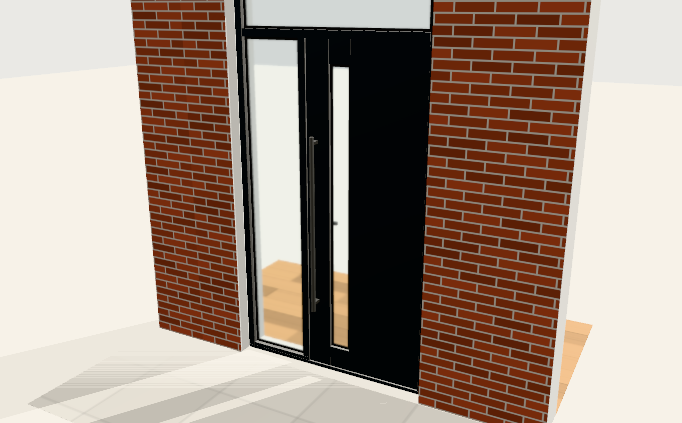
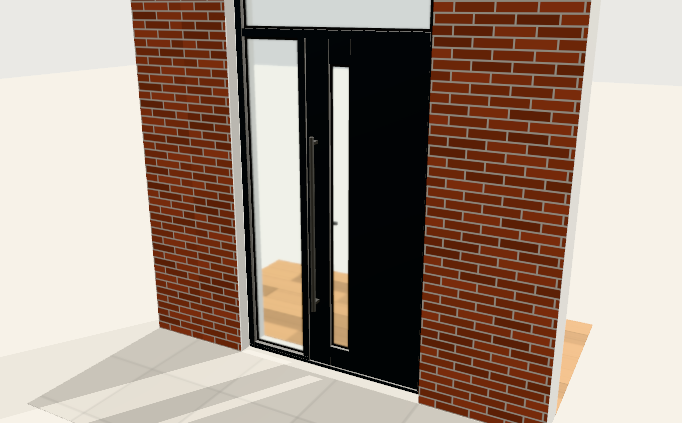
Raamtypes: soort kiezen past een indeling toe, vloer zonder strepen, korrel van structuurlak
- Een andere soort kiezen in de stap "Soort" past de eerste tegel van die soort toe: maat, glas en
  profiel kloppen meteen (een raam dat een hef-schuifdeur wordt, stond anders vol fouten).
- 3D per positie: bij de nieuwe indelingen (grote glaspartijen, vrij raster, stolp, steellook) liggen
  vloer en terras 3 mm boven het grondvlak, zodat ze er niet tegen flikkeren. De indelingen van
  vroeger blijven exact gelijk (referentiebeeld bouw-raam).
- Structuurlak krijgt een eigen fijne korrel, zichtbaar als je inzoomt.
- Ongebruikte import weg in de plattegrond-editor; skill bijgewerkt.

Claude-Session: https://claude.ai/code/session_01PczewFp9M8BS44vqTSpk6u

Changed region(s): [[0.1232, 0.7683, 0.3387, 0.8913], [0.4003, 0.8605, 0.4311, 0.8913]]

diff --git a/packages/demo-web/src/drie-d.ts b/packages/demo-web/src/drie-d.ts
@@ -668,8 +668,17 @@ function maakViewer(houder: HTMLElement, opties: Opties3D, intern: { geenWebGPU:
     steen: STEEN, planken: PLANK, tegel: TEGEL, parket: PARKET,
     planken_h: LIGGEND, leien: LEIEN, zink: ZINK, natuursteen: NATUURSTEEN, pleister: PLEISTER,
   };
-  // Structuurlak: de korrel van de pleister, vier keer fijner (korrels van ruim een millimeter).
+  // Structuurlak (schrijnwerk): een fijne korrel van ruim een millimeter, op een tegel van 16 cm.
   textuurMaat.lak_structuur = { b: 16, h: 16 };
+  const lakKorrel = (hex: string) => canvasTextuur(16, 16, 12, (g, px) => {
+    const toeval = vasteReeks('lak' + hex);
+    g.fillStyle = hex;
+    g.fillRect(0, 0, 16 * px, 16 * px);
+    for (let n = 0; n < 6000; n++) {
+      g.fillStyle = toeval() < 0.5 ? `rgba(0,0,0,${0.08 + toeval() * 0.2})` : `rgba(255,255,255,${0.08 + toeval() * 0.2})`;
+      g.fillRect(toeval() * 16 * px, toeval() * 16 * px, 2, 2);
+    }
+  });
 
   /**
    * UV in wereldmaat (cm) per vlak, zodat stenen en planken hun echte maat houden.
@@ -747,7 +756,7 @@ function maakViewer(houder: HTMLElement, opties: Opties3D, intern: { geenWebGPU:
       else if (b.soort === 'kunststof') m = new THREE.MeshStandardMaterial({ color: kleur(b.kleur), roughness: 0.35 });
       // Gelakt schrijnwerk: mat (dof), structuurlak (dof met een fijne korrel die licht vangt) of glanzend (blanke laklaag die spiegelt).
       else if (b.soort === 'lak_mat') m = new THREE.MeshStandardMaterial({ color: kleur(b.kleur), roughness: 1 });
-      else if (b.soort === 'lak_structuur') { const korrel = pleister(b.kleur); m = new THREE.MeshStandardMaterial({ color: 0xffffff, roughness: 0.9, map: korrel, bumpMap: korrel, bumpScale: 0.6 }); }
+      else if (b.soort === 'lak_structuur') { const korrel = lakKorrel(b.kleur); m = new THREE.MeshStandardMaterial({ color: 0xffffff, roughness: 0.9, map: korrel, bumpMap: korrel, bumpScale: 0.6 }); }
       else if (b.soort === 'lak_glans') m = new THREE.MeshPhysicalMaterial({ color: kleur(b.kleur), roughness: 0.1, metalness: 0.55, clearcoat: 1, clearcoatRoughness: 0.03 });
       else if (b.soort === 'dak') m = new THREE.MeshStandardMaterial({ color: kleur(b.kleur), roughness: 0.85 });
       else if (b.soort === 'gevel') m = new THREE.MeshStandardMaterial({ color: kleur(b.kleur), roughness: 0.97 });

diff --git a/packages/core/voorbeelden/raam3d.ts b/packages/core/voorbeelden/raam3d.ts
@@ -294,11 +294,14 @@ export function raamScene(r: ConfiguratieResultaat): Scene3D {
   muur('muur_boven', 0, borst + H + kast, B, top - borst - H - kast);
   const dorpels = rb.blokken.some((b) => b.code === 'vensterbank' || b.code === 'dorpel');
   muur('muur_onder', 0, 0, B, borst - (dorpels ? 3 : 0));
-  // Vloer en terras. Bij de grote glaspartijen (nieuw sinds 15/11) liggen ze 3 mm boven het grondvlak van de 3D: op
-  // dezelfde hoogte flikkeren ze ertegen (strepen). De oudere soorten houden hun vloer op 0, zodat hun beeld gelijk
-  // blijft (referentiebeeld bouw-raam); zet `op` voor alle soorten bij de volgende vernieuwing van de beelden.
-  const type = String(r.kenmerken.find((x) => x.code === 'type')?.waarde ?? '');
-  const op = type === 'hefschuif' || type === 'vouwwand' || type === 'glaswand' ? 0.3 : 0;
+  // Vloer en terras. Bij de indelingen die sinds 15/11 bestaan (grote glaspartijen, vrij raster, stolp, steellook)
+  // liggen ze 3 mm boven het grondvlak van de 3D: op dezelfde hoogte flikkeren ze ertegen (strepen). De indelingen
+  // van vroeger houden hun vloer op 0, zodat hun beeld exact gelijk blijft (referentiebeeld bouw-raam); zet `op`
+  // voor alles op 0.3 bij de volgende vernieuwing van de referentiebeelden.
+  const a = r.afgeleid, keuze = (code: string) => r.kenmerken.find((x) => x.code === code)?.waarde;
+  const type = String(keuze('type') ?? '');
+  const nieuw = type === 'hefschuif' || type === 'vouwwand' || type === 'glaswand' || a.raster_vrij === true || a.n_stolp === 1 || keuze('uitzicht') === 'steellook';
+  const op = nieuw ? 0.3 : 0;
   blokken.push({ code: 'vloer_binnen', soort: 'parket', vorm: 'blok', x: -80, y: -1, z: 20, b: B + 160, h: 1 + op, d: 140, kleur: '#c49a6c' });
   blokken.push({ code: 'terras', soort: 'tegel', vorm: 'blok', x: -80, y: -1, z: -130, b: B + 160, h: 1 + op, d: 120, kleur: '#b9b5ad' });
   return { blokken, kader: kaderVan(blokken) };

diff --git a/packages/core/test/raamtypes.test.ts b/packages/core/test/raamtypes.test.ts
@@ -6,7 +6,7 @@
 import { describe, expect, it } from 'vitest';
 import { controleerModel, tekenSvg, type Keuzes } from '../src/index.js';
 import { berekenRaam, raamdeur, RAL_KLEUREN, ruitenVan } from '../voorbeelden/raam.js';
-import { raamBlokken } from '../voorbeelden/raam3d.js';
+import { raamBlokken, raamScene } from '../voorbeelden/raam3d.js';
 import { INDELINGEN, indelingVan, pasIndelingToe } from '../voorbeelden/raamindelingen.js';
 import { openingenVan, rasterVan } from '../voorbeelden/raamraster.js';
 import { raamKeuzes } from '../voorbeelden/woning.js';
@@ -285,6 +285,15 @@ describe('grote glaspartijen', () => {
     expect(codes({ type: 'glaswand', breedte: 3600, hoogte: 2500, profiel: 'alu' })).toContain('veiligheidsglas');
     expect(r.stuklijst.map((s) => s.code)).not.toContain('deurslot');
     expect(codes({ type: 'glaswand', ...groot, delen: 'd1', breedte: 3500 })).toContain('deel_breed');
+  });
+
+  it('scène: bij de nieuwe indelingen liggen vloer en terras net boven het grondvlak van de 3D (geen strepen)', () => {
+    const vloer = (extra: Keuzes) => raamScene(raam(extra)).blokken.filter((b) => b.code === 'vloer_binnen' || b.code === 'terras').map((b) => Math.round((b.y + b.h) * 100) / 100);
+    expect(vloer({ type: 'hefschuif', ...groot, delen: 'd3' })).toEqual([0.3, 0.3]);
+    expect(vloer({ vakken: 'v2', breedte: 1600, vak1: 'draai_l', vak2: 'draaikip_r', stolp: true })).toEqual([0.3, 0.3]);
+    // De indelingen van vroeger blijven exact wat ze waren.
+    expect(vloer({})).toEqual([0, 0]);
+    expect(vloer({ type: 'schuif', breedte: 3000, hoogte: 2300, ...gelaagd })).toEqual([0, 0]);
   });
 
   it('de nieuwe soorten gebruiken alleen artikelen die in de prijslijst staan', () => {

diff --git a/packages/bouw-web/src/positie-ui.ts b/packages/bouw-web/src/positie-ui.ts
@@ -281,7 +281,15 @@ function bouwIndelingen(): HTMLElement {
   return vak;
 }
 
+/** De indeling waarmee een soort begint als je ze in de stap "Soort" kiest (de eerste tegel van die soort). */
+const EERSTE_INDELING: Record<string, string> = { raam: 'enkel_dk', terrasdeur: 'terrasdeur', voordeur: 'voordeur', schuif: 'schuif2', hefschuif: 'hefschuif3', vouwwand: 'vouwwand4', glaswand: 'glaswand' };
+
 function zet(code: string, w: unknown) {
+  // Een andere soort kiezen is een andere indeling kiezen: zo passen maat, glas en profiel zich meteen aan
+  // (een raam van 1,2 m dat een hef-schuifdeur wordt, zou anders vol fouten staan).
+  const p = huidig();
+  const start = p?.model === 'RAAM' && code === 'type' && p.keuzes.type !== w ? INDELINGEN.find((i) => i.code === EERSTE_INDELING[String(w)]) : undefined;
+  if (start) { kiesIndeling(start); return; }
   wijzig('positie', (t) => {
     const p = t.posities.find((x) => x.id === huidigId);
     if (p) p.keuzes[code] = w as never;

diff --git a/packages/bouw-web/src/plattegrond-ui.ts b/packages/bouw-web/src/plattegrond-ui.ts
@@ -31,7 +31,6 @@ import {
   type RuimteType,
 } from '../../core/src/index.js';
 import { planCatalogus as cat } from '../../core/voorbeelden/inrichting.js';
-import { raamBlokken } from '../../core/voorbeelden/raam3d.js';
 import { maak3D, type Viewer3D } from '../../demo-web/src/drie-d.js';
 import { grootSchermKnop, Zoom, type Kader } from '../../demo-web/src/zoom.js';
 import { $, el, eur, getal, getalVeld, keuzelijst } from './hulp.js';

diff --git a/.claude/skills/bouw-woning/SKILL.md b/.claude/skills/bouw-woning/SKILL.md
@@ -60,9 +60,9 @@ Bestanden (allemaal in `core/voorbeelden/`): `raam.ts` (model, prijslijst, `bere
 - **Stolp** (`stolp`, bij 2 of 4 vakken): geen vaste stijl tussen de twee middelste vleugels; de linkse scharniert links, de rechtse rechts (regel `stolp`). Telt niet als tussenstijl (`n_stijl`, statiek, profiellengte). In 3D één greep, op de loopvleugel (de draai-kip, anders de rechtse).
 - **Schuifdelen**: bij 3 delen blijft het midden vast; bij 4 delen schuiven de twee middelste naar buiten en sluiten ze tegen elkaar (twee overlappingen, `n_overlap`). **Vouwdelen** scharnieren om en om (`draai_l`/`draai_r`), geteld vanaf de kant van het pakket (`vouw_richting`). Er komen geen nieuwe symbolen bij: het gevelaanzicht spiegelt alleen de bestaande.
 - **Kleinhouten** (`roeden`): `kol` × `rij` ruiten per vak. **Steellook** (`uitzicht`): smal profiel (f = 22 mm) en een verdeling van ± 45 × 55 cm per ruit, uitgerekend in `rasterVan`; alleen in aluminium.
-- **Kleur**: `RAL_KLEUREN` (22 kleuren met naam en nummer; de hexwaarden zijn een benadering, dat staat in de helptekst) voor `kleur_buiten` en `kleur_binnen`; de codes wit, creme, antraciet en zwart zijn die van vroeger. `lak` (standaard / mat / structuur / glans) bepaalt `profielsoort`: zonder lak het profiel zelf (kunststof, metaal, hout), anders `lak_mat`, `lak_structuur`, `lak_glans` (BlokSoort in `ruimtelijk.ts`, materiaal in `drie-d.ts`). Mat en structuur verschillen pas als je inzoomt (de korrel).
+- **Kleur**: `RAL_KLEUREN` (22 kleuren met naam en nummer; de hexwaarden zijn een benadering, dat staat in de helptekst) voor `kleur_buiten` en `kleur_binnen`; de codes wit, creme, antraciet en zwart zijn die van vroeger. `lak` (standaard / mat / structuur / glans) bepaalt `profielsoort`: zonder lak het profiel zelf (kunststof, metaal, hout), anders `lak_mat`, `lak_structuur`, `lak_glans` (BlokSoort in `ruimtelijk.ts`, materiaal in `drie-d.ts`). Glans spiegelt zichtbaar; mat en structuur verschillen pas als je inzoomt (de korrel van ruim een millimeter).
 - **Symboolafspraak in de tekening (zicht van binnen):** de punt van de driehoek wijst naar de scharnierzijde; kip gestippeld met de punt onderaan; schuif = pijl. Getekend door `symbool` op een `Vorm` (motor) → `symboolLijnen` in `svg.ts`. Te bevestigen met de klant welke afspraak zij hanteren.
-- **Kant-en-klare indelingen** (`raamindelingen.ts`): `INDELINGEN` = tegels in het scherm (Ramen, Deuren, Grote glaspartijen, Steellook). `pasIndelingToe(keuzes, indeling)` zet álle kenmerken van de indeling (`INDELING_BASIS`), houdt de maat als ze past en dicht bij de gangbare maat ligt, maakt het glas gelaagd tot op de vloer, en kiest aluminium of een versterkte stijl als de statiek het vraagt: één tik geeft altijd een geldige positie (getest voor elke tegel). `indelingVan(keuzes)` zegt welke tegel aan staat. Kleur, zonwering en kleinhouten blijven. In het scherm zit de instelling per vak onder *Meer opties*; op een smal scherm staat de tekening eerst en blijft ze in beeld.
+- **Kant-en-klare indelingen** (`raamindelingen.ts`): `INDELINGEN` = tegels in het scherm (Ramen, Deuren, Grote glaspartijen, Steellook). `pasIndelingToe(keuzes, indeling)` zet álle kenmerken van de indeling (`INDELING_BASIS`), houdt de maat als ze past en dicht bij de gangbare maat ligt, maakt het glas gelaagd tot op de vloer, en kiest aluminium of een versterkte stijl als de statiek het vraagt: één tik geeft altijd een geldige positie (getest voor elke tegel). `indelingVan(keuzes)` zegt welke tegel aan staat. Kleur, zonwering en kleinhouten blijven (een screen vervalt als de partij breder wordt dan 5 m). In het scherm zit de instelling per vak onder *Meer opties*; op een smal scherm staat de tekening eerst en blijft ze in beeld.
 - Controles (regels): maat per vak t.o.v. beslag (maxb/maxh per vakkeuze), maat en gewicht per deel (`deel_breed`, `deel_hoog`, `deel_zwaar`), vleugelgewicht (draai 130 kg, schuif 250 kg, hef-schuif 400 kg, vouwwand 100 kg), veiligheidsglas (deur of borstwering < 850 mm), valbeveiliging, ventilatierooster in droge ruimtes, mat glas in badkamer/wc, RC2 vraagt gelaagd glas, Uw > 1,5, screen > 5 m. De wettelijke grenzen zijn **te verifiëren**.
 - Uw = (glas·Ug + paneel·0,8 + rest·Uf + lg·ψ) / A, met ψ van de gekozen **afstandhouder** (alu 0,08, rvs 0,06, warm edge 0,04); `randkleur` kleurt de rand rond het glas in 3D.
 - **Statiek** (stap `statiek`): `heeft_stijl` = schuifdelen, bovenlicht, vak onderaan of minstens één vaste stijl (`n_stijl`). Nodig E·I = 5 · q · L³ · k / 384 met q = winddruk × invloedsbreedte (`stijl_a` = vb, of bij ongelijke vakken het breedste paar; `regel_a` = (bl + vh)/2), L = `stijl_l` (vh + f, of de hele hoogte als de stijl doorloopt) of `regel_l`, k = 300 of 200. `i_nodig` (cm⁴) = E·I / E van het dragende deel (profiel `e`, koppelprofiel 70 000); `i_aanwezig` = profiel `ix`, `ix_vers` of 400 (koppel), × 2 bij schuifdelen (twee ontmoetingsstijlen). Regel `statiek` (fout) als niet `statiek_ok`; in 3D maakt `stijl()` de stijl rood (#e0412f) of dieper (koppel, 13 cm). Profielstijfheden zijn demowaarden.
@@ -70,7 +70,8 @@ Bestanden (allemaal in `core/voorbeelden/`): `raam.ts` (model, prijslijst, `bere
 - Zonwering: kast boven het raam (`zon_kast`), in 3D doek/lamellen deels neer, geleiders opzij.
 - **Prijzen:** de nieuwe soorten hebben geen eigen prijswerk; ze gebruiken de bestaande artikelen (schuifbeslag voor hef-schuif, draaibeslag per deel voor de vouwwand). Een artikel dat niet in `raamPrijslijst` staat, maakt de positie ongeldig.
 - **Oude projecten:** `core/test/raam-bestaand.test.ts` vergelijkt 51 gevallen (de 14 posities van de voorbeeldwoning en varianten) met de uitkomst van vóór 15/11 (`test/gegevens/raam-oud.json`: cijfers, meldingen, prijs en een vingerafdruk van tekening, 3D-blokken en glasbestelling). Wijzigt een oude indeling bewust, dan moet dat bestand opnieuw gemaakt worden.
-- **3D-scène per positie** (`raamScene`): bij de grote glaspartijen liggen vloer en terras 3 mm boven het grondvlak van de 3D (anders flikkeren ze ertegen). De oudere soorten doen dat nog niet, zodat het referentiebeeld `bouw-raam` gelijk blijft; zet het voor alle soorten aan bij een volgende vernieuwing van de beelden.
+- **3D-scène per positie** (`raamScene`): bij de indelingen van 15/11 (grote glaspartijen, vrij raster, stolp, steellook) liggen vloer en terras 3 mm boven het grondvlak van de 3D (anders flikkeren ze ertegen, in strepen). De indelingen van vroeger doen dat nog niet, zodat het referentiebeeld `bouw-raam` gelijk blijft; zet `op` voor alles aan bij een volgende vernieuwing van de beelden.
+- **Soort kiezen** in de stap *Soort* past de eerste tegel van die soort toe (`EERSTE_INDELING` in `positie-ui.ts`), zodat maat, glas en profiel meteen kloppen.
 
 ## Garagepoort (`POORT`, mm)
 - Eigen vast model: `core/voorbeelden/garagepoort.ts` (breedte, hoogte, belijning vlak / lijnen / cassettes, vensters, kleur uit `RAL_KLEUREN`) en `garagepoort3d.ts` (`poortBlokken` met dezelfde assen als een raam, `poortScene`). De tekening (zicht van buiten) staat in het model zelf. Secties van ± 50 cm (`ns`, `sh`), cassettes en vensters van ± 60 cm (`nc`); de vensters zitten in de tweede sectie van boven. Benaderingen: elke fabrikant verdeelt anders.
